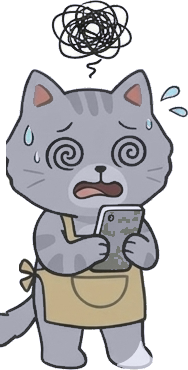
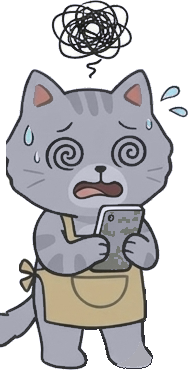
만화 캐릭터 점검: cat-stamp 다시 자르기, 발 워터마크 8종·얼룩 3종 지우기, 잘림 주의 목록

diff --git a/_tools/toon-chars.js b/_tools/toon-chars.js
@@ -1,5 +1,9 @@
 // 나혼세 만화 캐릭터(고양이 사장님·강아지 이웃 사장님). toon.html(네컷만화)과 insta.html(설명 장)이 같이 쓴다.
 // 캐릭터 그림: assets/toon/*.png (사용자 제공 시트 이모션1~7에서 잘라 배경 투명, 원본 jpg는 커밋 안 함)
+//   잘림 주의(2026-11-08 점검, 시트에서 옆 캐릭터에 가려져 원본에도 없음 → 잘린 쪽을 칸 가장자리에 붙이거나 다른 그림을 쓴다):
+//     꼬리 왼쪽 잘림 cat-happy·cat-wink·cat-dizzy·cat-moneybags(몸 왼쪽도), 꼬리 오른쪽 cat-sob, 몸 왼쪽 선 cat-mad, 오른쪽 가장자리 cat-faint·cat-panic·cat-shock,
+//     서류 왼쪽 끝 cat-guide("TAX" 첫 글자)·cat-contract, 귀 오른쪽 dog-surprise·dog-think, 귀 왼쪽 dog-panic·dog-smug
+//     (고침: cat-stamp 얼굴 오른쪽은 이모션9에서 다시 자름, 발 워터마크 8종·얼룩 3종 지움)
 //   공통(dog-·cat-): neutral 기본, talk 말하기, surprise 놀람, panic 당황, happy 기쁨, cry 울음,
 //                    angry 화남, tired 지침, cheer 만세, laptop 노트북 작업, phone 통화 당황, slam 책상 쾅, faint 기절(몸 뒤쪽이 잘림 → 칸 아래로 자르기), yay 만세2
 //   강아지만: think 궁금(전구?), smug 팔짱 으쓱, bored 턱 괴기(상반신)   고양이만: idea 떠오름(전구), shock 파랗게 질림, wink 윙크, mad 팔짱 화남
